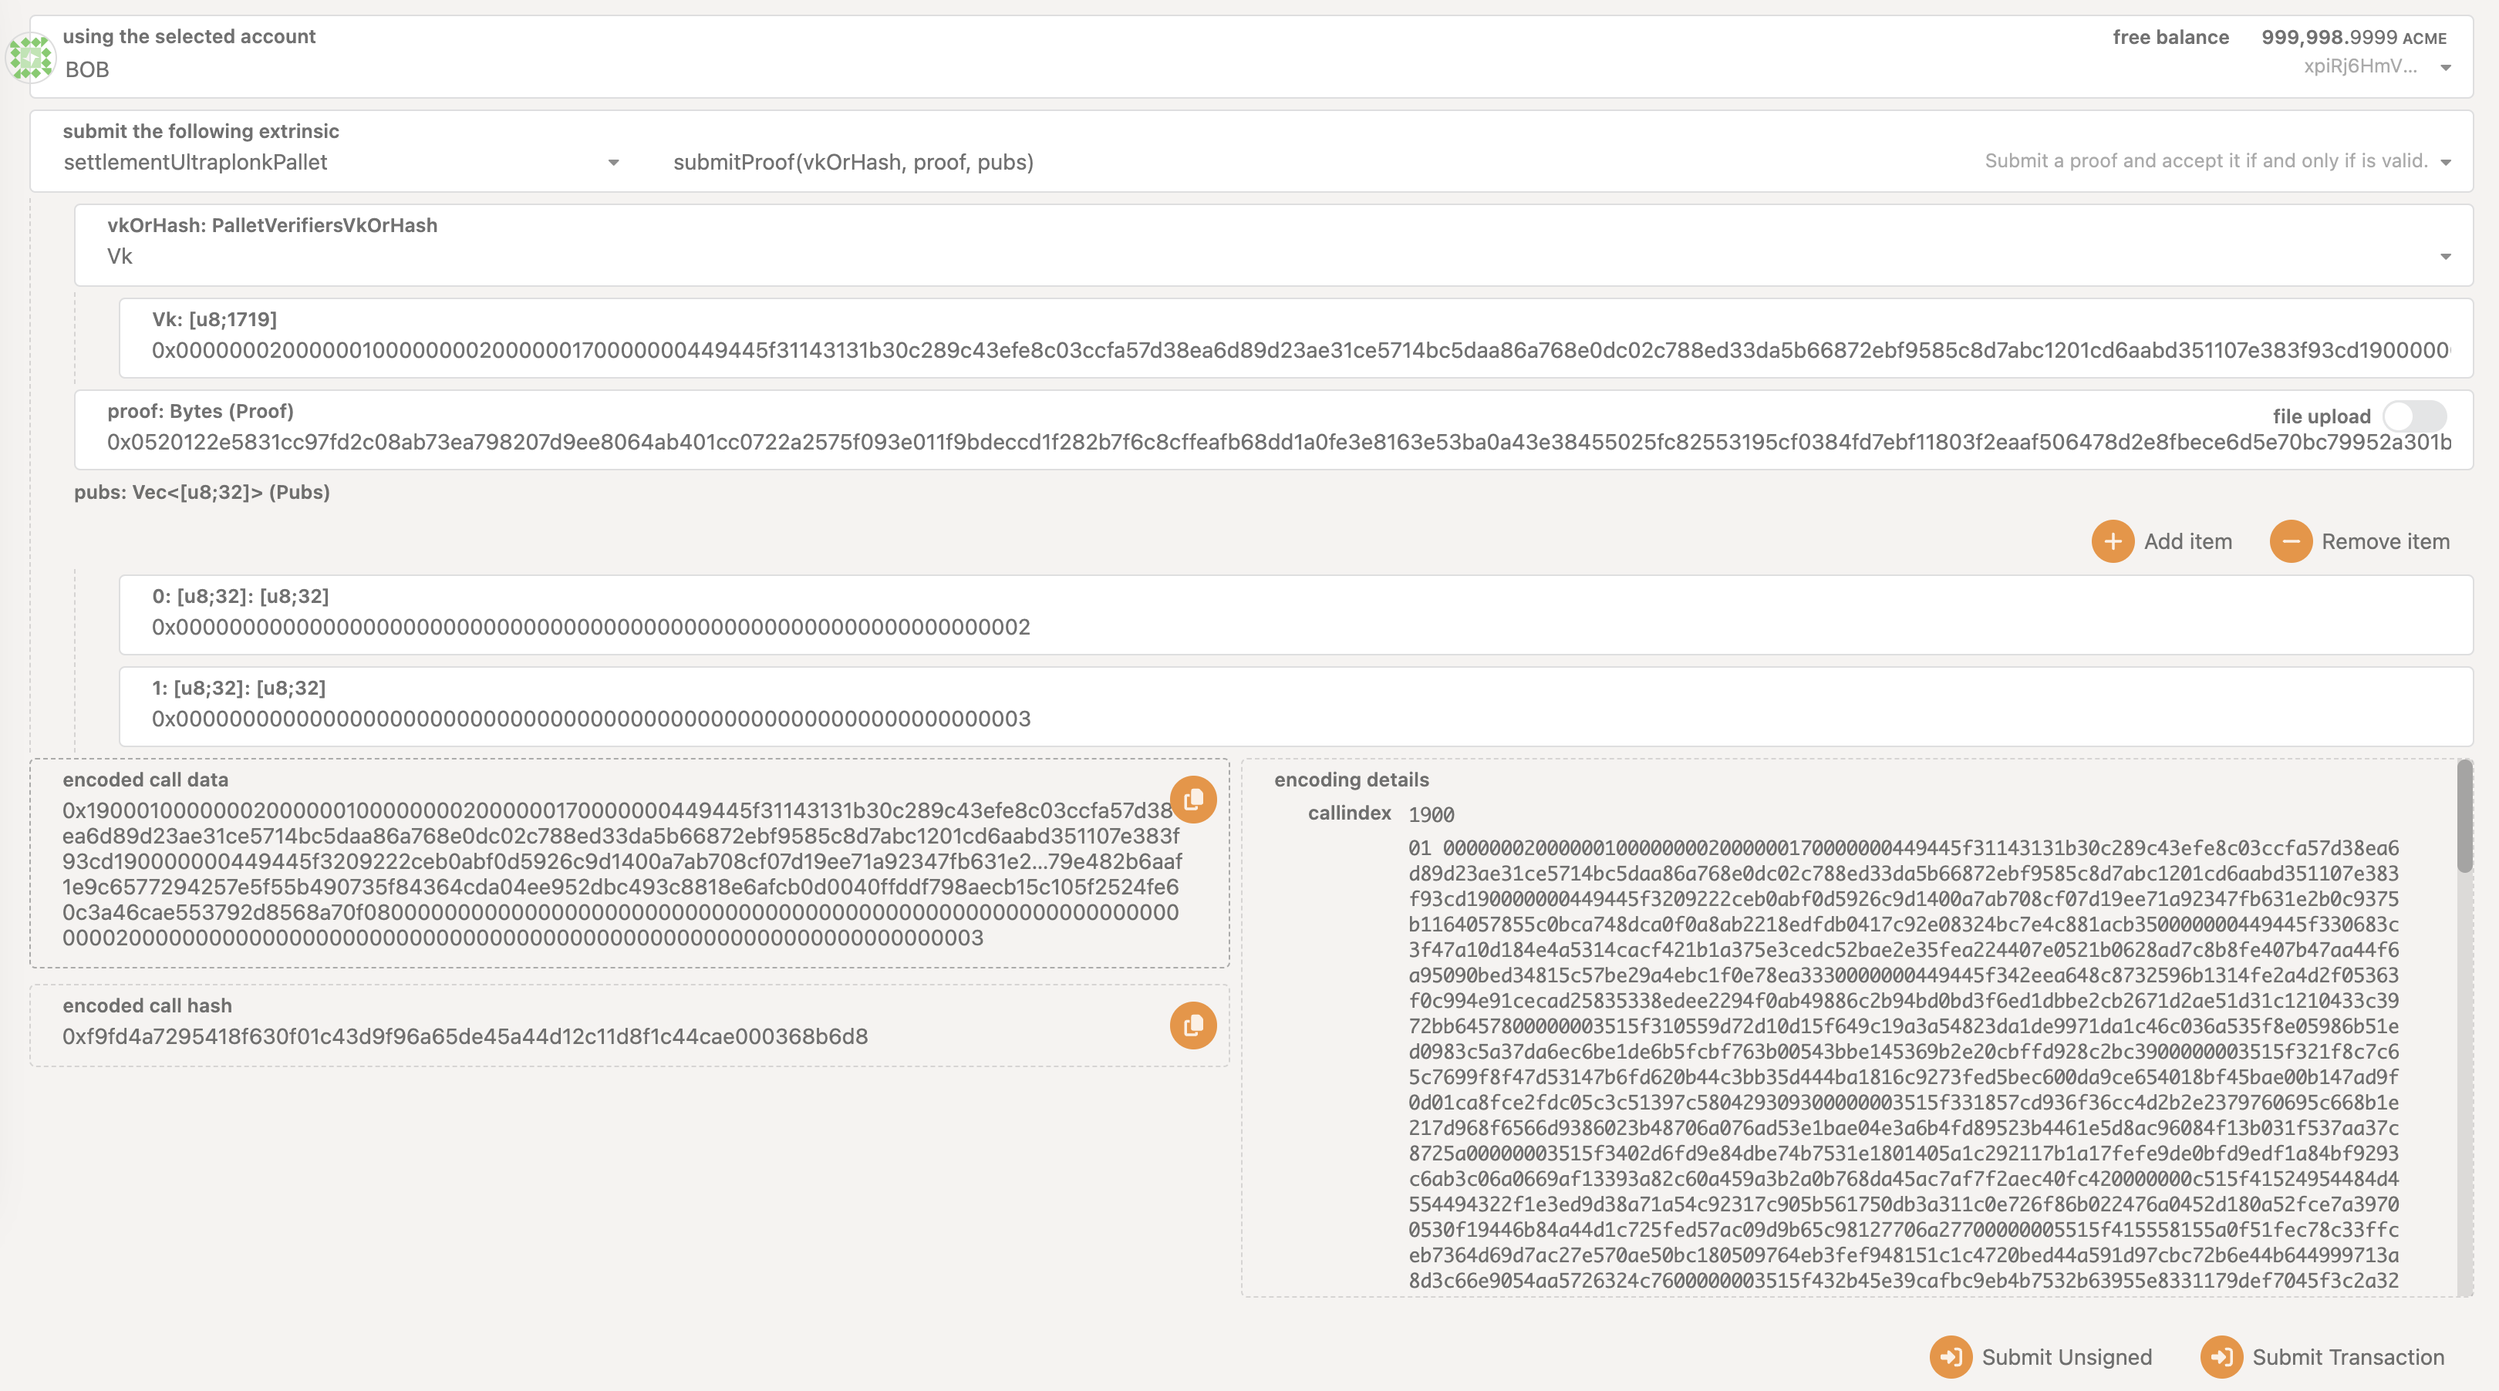
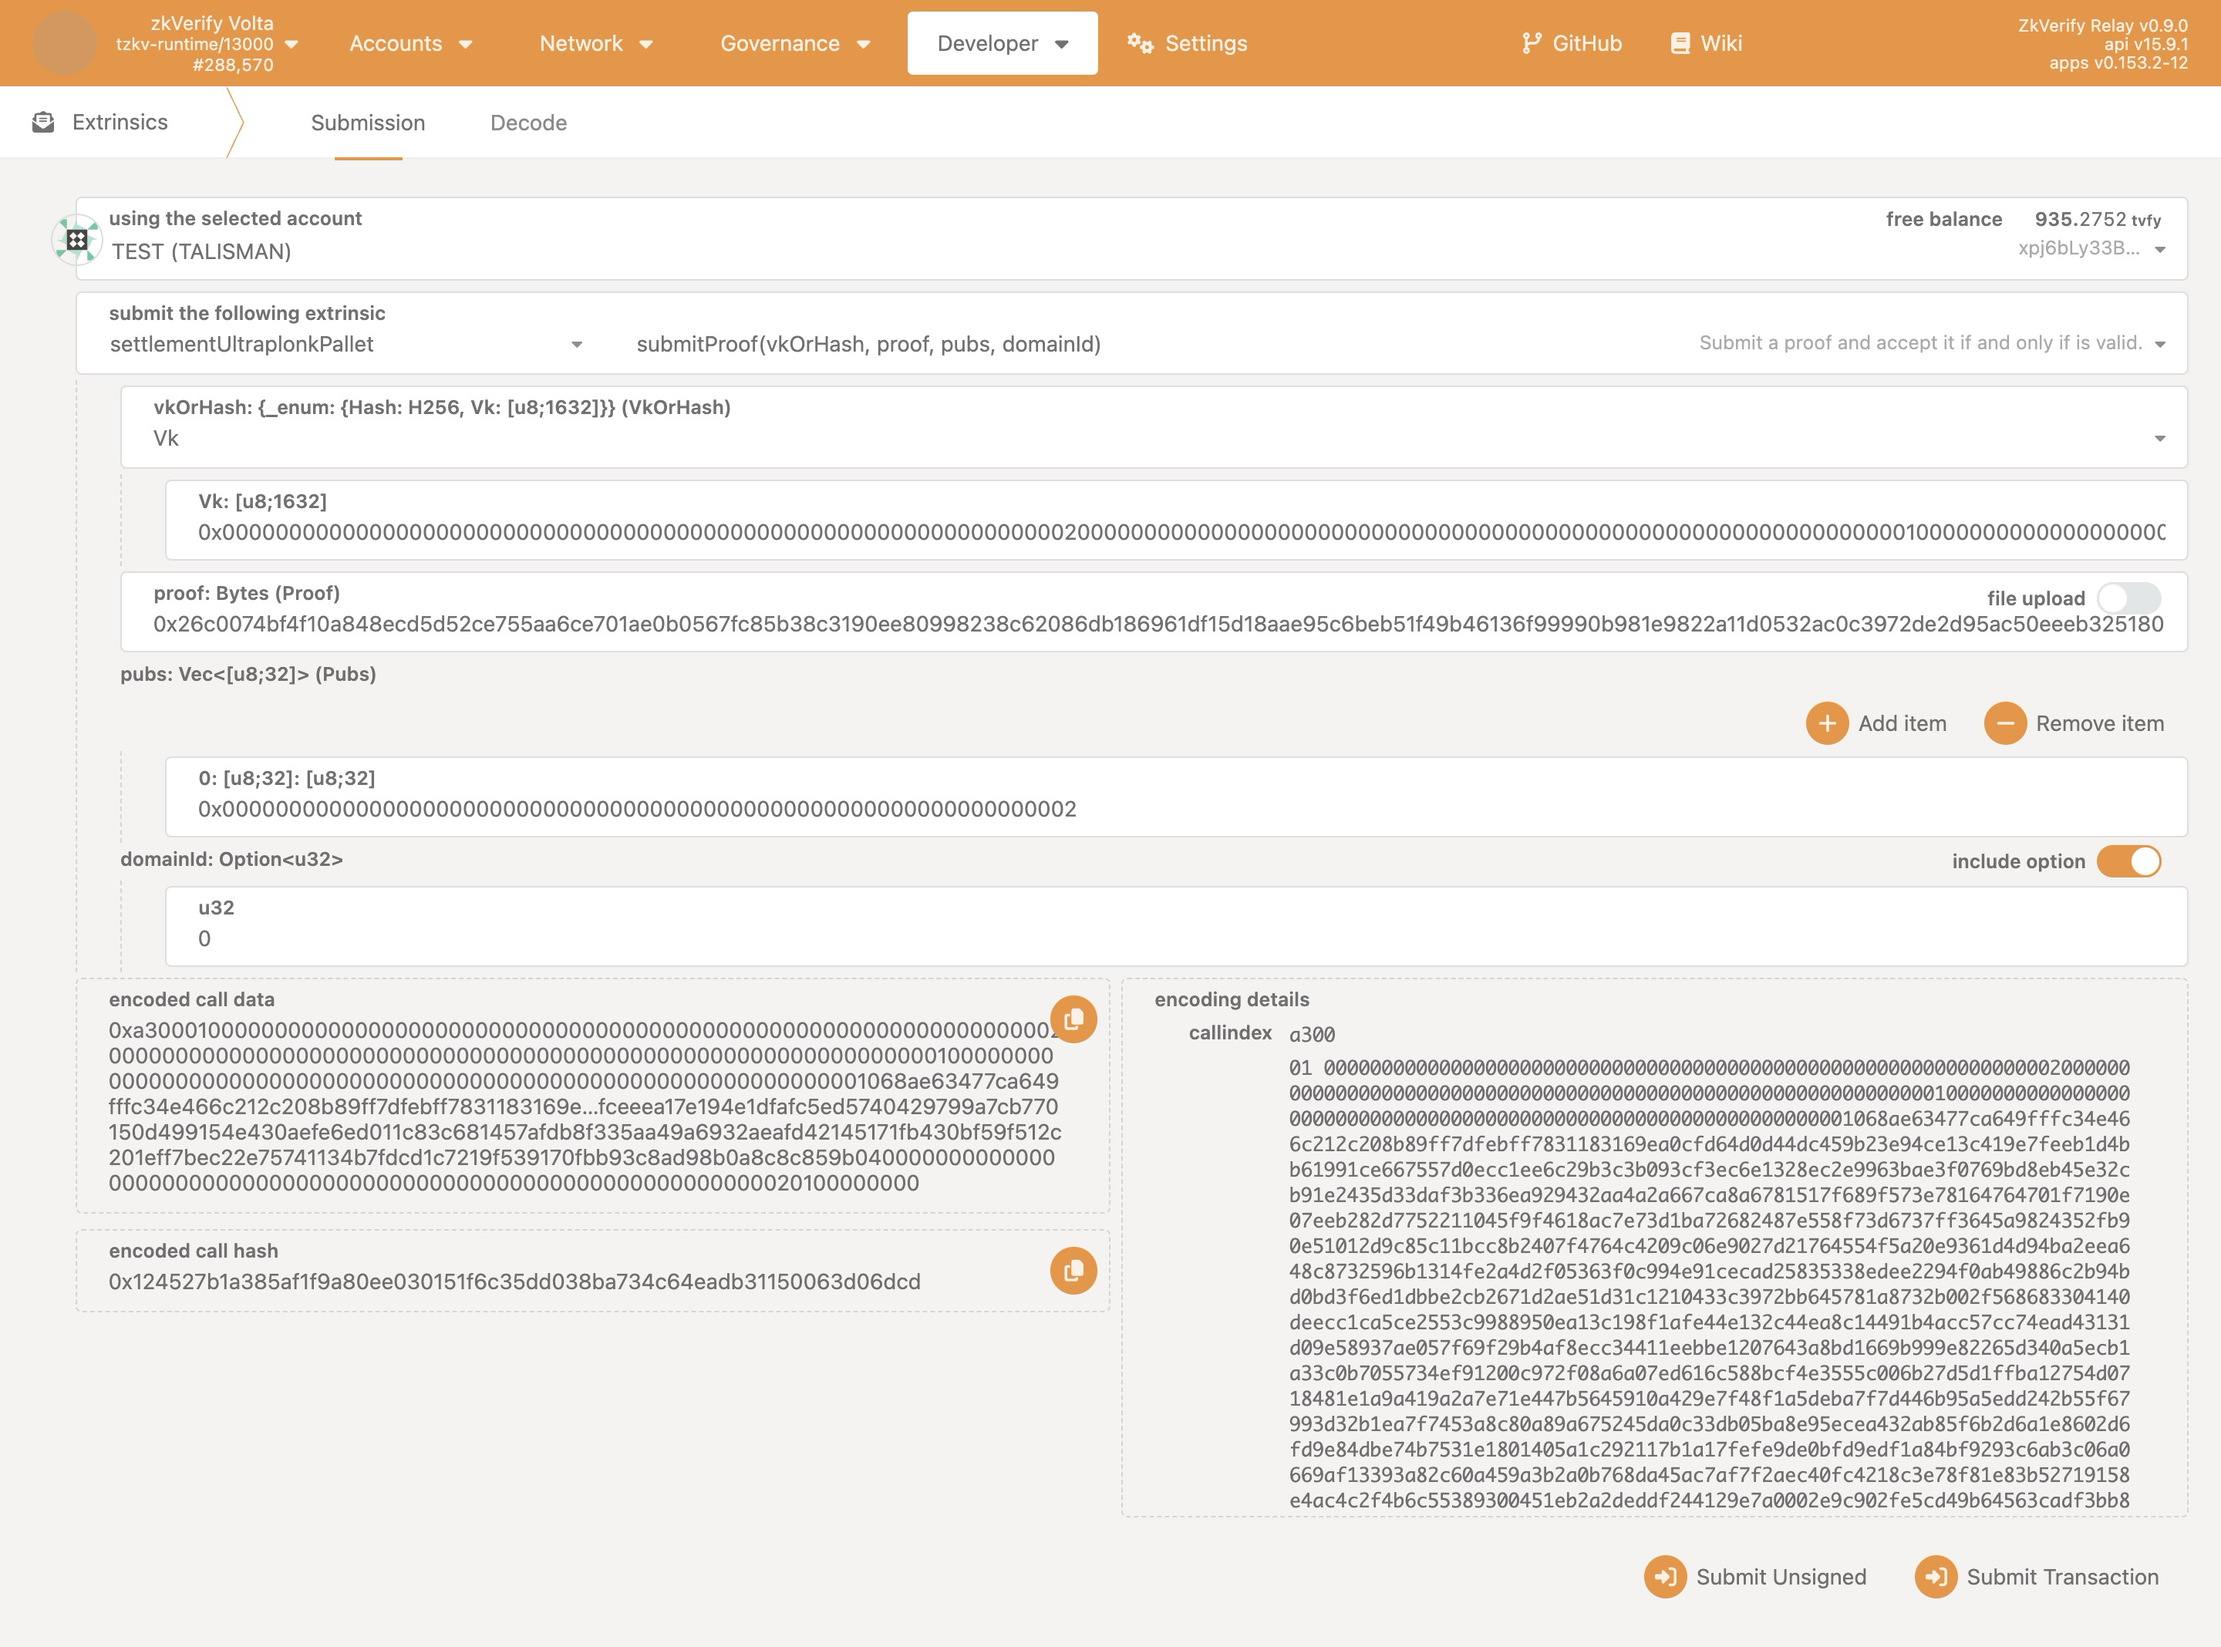
updated-submit-proofs-section

diff --git a/docs/tutorials/05-submit-proofs/07-noir-ultraplonk-example.md b/docs/tutorials/05-submit-proofs/07-noir-ultraplonk-example.md
@@ -46,6 +46,16 @@ noir-cli verify --key <zkv_vk path> --proof <zkv_proof path> --pubs <zkv_pubs pa
 
 ## Submitting the Proof
 
-Submit the proof by using `polkadot.js.org` frontend like on the image below:
+1. Head to [polkadot.js.org frontend](https://polkadot.js.org/apps/?rpc=wss%3A%2F%2Ftestnet-rpc.zkverify.io#/extrinsics)
+2. Select your account (you must have some tVFY).
+3. Choose the `settlementUltraplonkPallet`, and the `submitProof` extrinsic.
+4. Inside the field `vkOrHash` select `Vk`
+5. Fill in all the required fields by copy-pasting them from the hex files obtained in the previous step. You will need to fill the Vk, proof and public inputs. If you have more than one public inputs, you can click on the `Add Item` option to add more public inputs.
+6. Enter the Domain ID corresponding to the domain you want to aggregate the proof for. Think of the Domain ID as the target chain for aggregation. You can find a list of available domains [here](../../overview/04-proof-aggregation/05-domain-management.md).
+
+7. Click on the `submitTransaction` button.
+
 
 ![Submit Proof](./img/ultraplonk-proof.png)
+
+Check your transaction on the [zkVerify Block Explorer](https://zkverify-testnet.subscan.io/)!

diff --git a/docs/tutorials/05-submit-proofs/04-risc0_proof_submission.md b/docs/tutorials/05-submit-proofs/04-risc0_proof_submission.md
@@ -19,9 +19,10 @@ In order to do this you can use [PolkadotJs](https://polkadot.js.org/apps/?rpc=w
 - Inside the field `vkOrHash` select `Vk` and paste the verification key (i.e. the image id of the code whose execution you want to verify), making sure to prepend it with hexadecimal prefix `0x`.
 - Inside the field `proof` choose the risc0 version used to generate the proof and load the binary file or paste the proof bytes, making sure to prepend it with hexadecimal prefix `0x`.
 - Inside the field `pubs` paste the public inputs, making sure to prepend it with hexadecimal prefix `0x`.
+- Enter the Domain ID corresponding to the domain you want to aggregate the proof for. Think of the Domain ID as the target chain for aggregation. You can find a list of available domains [here](../../overview/04-proof-aggregation/05-domain-management.md).
 - Click on `submitTransaction`.
 
-![alt_text](./img/risc0_submit_proof.png)
+![alt_text](./img/risc0-proof.png)
 
 ## Step 2
 

diff --git a/docs/tutorials/05-submit-proofs/05-groth16_proof_submission.md b/docs/tutorials/05-submit-proofs/05-groth16_proof_submission.md
@@ -72,7 +72,11 @@ At the end of this step you should have the three files `proof_zkv.json`, `verif
 3. Choose the `settlementGroth16Pallet`, and the `submitProof` extrinsic.
 4. Inside the field `vkOrHash` select `Vk`
 5. Fill in all the required fields by copy-pasting them from the json files obtained in the previous step. All the fields should be pasted without quotes. For the `gammaAbcG1` field and the `input` field you may need to click on the `Add Item` button a certain number of times, depending on the number of corresponding entries in your json files.
-6. Click on the `submitTransaction` button.
+6. Enter the Domain ID corresponding to the domain you want to aggregate the proof for. Think of the Domain ID as the target chain for aggregation. You can find a list of available domains [here](../../overview/04-proof-aggregation/05-domain-management.md).
+
+7. Click on the `submitTransaction` button.
+
+![Groth16 Proof](./img/groth16-proof.png)
 
 ## Step 4
 
